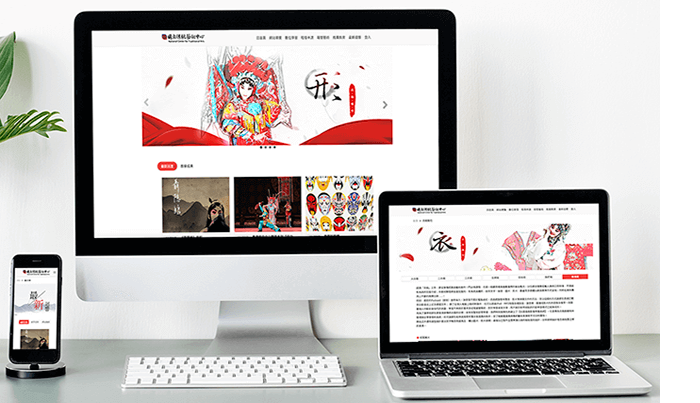
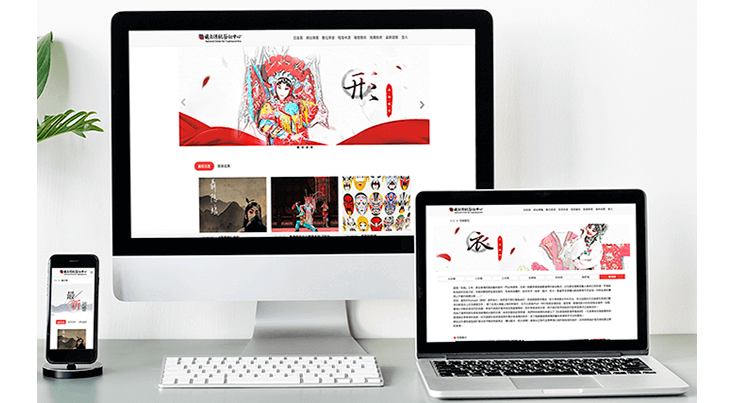
Fixed mobile layout problem.

diff --git a/css/web.css b/css/web.css
@@ -20,6 +20,7 @@
     position: absolute;
     right: 0;
     top: 0;
+    z-index: -1;
 }
 
 .textarea {
@@ -300,10 +301,6 @@ a.btn:hover {
     .r2 .wp content {
         width: 31.5%;
     }
-
-    .r2 .wp content:nth-child(2) img {
-        object-position: 71%;
-    }
 }
 
 @media(max-width:950px) {
@@ -334,12 +331,6 @@ a.btn:hover {
 
     .r2 .wp2 content:nth-child(1) img {
         object-position: center;
-    }
-
-
-
-    .r2 .wp content:nth-child(3) img {
-        object-position: 10%;
     }
 }
 
@@ -384,6 +375,7 @@ a.btn:hover {
 @media(max-width:630px) {
     .r2 .wp content {
         margin: 10px 3px 0;
+        overflow: hidden;
     }
 
     .r1 .wp img, .r1 .wp p {
@@ -451,7 +443,6 @@ a.btn:hover {
 
 @media(max-width:414px) {
     .r2 .wp content img {
-        width: 300px;
         height: 250px;
     }
 
